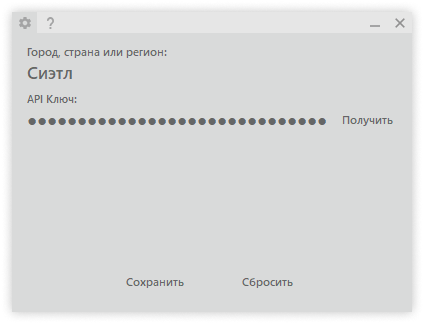
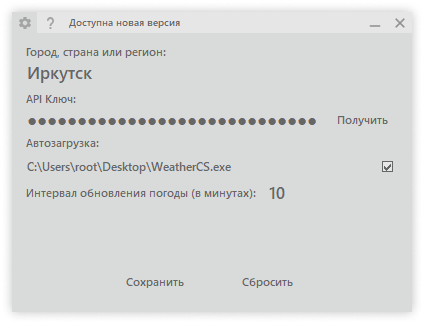
v1.1.3
Small fix :wrench:

diff --git a/WeatherCS/MainForm.cs b/WeatherCS/MainForm.cs
@@ -19,13 +19,13 @@ namespace WeatherCS
 
         readonly string appName = About.AssemblyTitle;
         readonly string exPath = Application.ExecutablePath;
-        bool fadeIn = true;
         bool isChecked = false;
         bool isEntered = false;
 
         public MainForm()
         {
             InitializeComponent();
+
             Load += async (s, e) =>
             {
                 if (GetRegistry("autorun") == null)
@@ -121,6 +121,7 @@ namespace WeatherCS
                     Show();
                     Tray.Visible = false;
                     WindowState = FormWindowState.Normal;
+                    FadeInApp();
                 }
             };
             TrayAboutButton.Click += (s, e) =>
@@ -128,6 +129,7 @@ namespace WeatherCS
                 Show();
                 Tray.Visible = false;
                 WindowState = FormWindowState.Normal;
+                FadeInApp();
 
                 if (!AboutPanel.Visible)
                 {
@@ -140,6 +142,8 @@ namespace WeatherCS
                 Show();
                 Tray.Visible = false;
                 WindowState = FormWindowState.Normal;
+                FadeInApp();
+
                 if (!SettingPanel.Visible)
                 {
                     SettingButton.Focus();
@@ -149,7 +153,14 @@ namespace WeatherCS
             TrayCloseButton.Click += (s, e) => { Close(); };
 
             LocationInput.Enter += (s, e) => { isEntered = true; LocMessage.Text = "Нажмите Enter, чтобы сохранить."; };
-            LocationInput.KeyDown += (s, e) => { UpdateLocation(s, e); };
+            LocationInput.KeyDown += (s, e) => {
+                if (e.KeyCode == Keys.Enter)
+                {
+                    ActiveControl = null;
+                    e.SuppressKeyPress = true;
+                    GetWeather((s as TextBox).Text);
+                }
+            };
             LocationInput.KeyPress += (s, e) => { RegExpLocationInput(s, e); };
             LocationInput.TextChanged += (s, e) =>
             {
@@ -199,13 +210,13 @@ namespace WeatherCS
                 {
                     SetRegistry("autorun", "True");
                     using (RegistryKey r = Registry.LocalMachine.OpenSubKey(@"Software\Microsoft\Windows\CurrentVersion\Run", true))
-                        r.SetValue(About.AssemblyTitle, exPath + " /minimized");
+                        r.SetValue(appName, exPath + " /minimized");
                 }
                 else
                 {
                     SetRegistry("autorun", "False");
                     using (RegistryKey r = Registry.LocalMachine.OpenSubKey(@"Software\Microsoft\Windows\CurrentVersion\Run", true))
-                        r.DeleteValue(About.AssemblyTitle);
+                        r.DeleteValue(appName);
                 }
             };
             SettingsInterval.KeyPress += (s, e) =>
@@ -289,6 +300,7 @@ namespace WeatherCS
                 Timer.Interval = Convert.ToInt32(SettingsInterval.Text) * 60000;
 
                 GetWeather();
+                FadeInApp();
             }
             else
             {
@@ -333,7 +345,7 @@ namespace WeatherCS
                 PressureLabel.Text = pressure;
                 LocationInput.Text = loc;
                 SettingsLocation.Text = loc;
-                DescriptionPic.Text = FirstLetterToUpper(w.Weather[0].Description);
+                DescriptionPic.Text = Char.ToUpper(w.Weather[0].Description[0]) + w.Weather[0].Description.Substring(1);
                 WeatherIco.ImageLocation = String.Format("https://openweathermap.org/img/wn/{0}@4x.png", w.Weather[0].Icon);
 
                 ErrorHandler();
@@ -369,7 +381,7 @@ namespace WeatherCS
                 Match m = Regex.Match(w.DownloadString("https://raw.githubusercontent.com/crashmax-off/WeatherCS/master/WeatherCS/Properties/AssemblyInfo.cs"), @"\[assembly\: AssemblyVersion\(""(\d+\.\d+\.\d+)""\)\]");
                 string[] v1 = m.Groups[1].Value.Split('.');
                 string[] v2 = About.AssemblyVersion.Split('.');
-                string[] r = v2.Where(x => v1.Any(y => y.Equals(x))).ToArray();
+                string[] r = v1.Where(x => v2.Any(y => y.Equals(x))).ToArray();
                 string u = "https://github.com/crashmax-off/WeatherCS/releases/latest";
 
                 if (r.Length < 3)
@@ -401,8 +413,6 @@ namespace WeatherCS
 
         void ErrorHandler(string error = "")
         {
-            FadeInApp();
-
             if (error != "")
             {
                 Text = appName;
@@ -414,7 +424,7 @@ namespace WeatherCS
                 ReconnectButton.Text = "Обновить";
                 ReconnectButton.Enabled = true;
                 DescriptionErrorLabel.Text = error;
-                SettingsLocation.Text = error;
+                SettingsApiKey.ForeColor = Color.Firebrick;
 
                 RegistryApp("api", API.Key);
                 SettingsApiKey.Text = GetRegistry("api");
@@ -424,6 +434,7 @@ namespace WeatherCS
                 ErrorPanel.Visible = false;
 
                 SettingsLocation.ForeColor = SystemColors.ControlDarkDark;
+                SettingsApiKey.ForeColor = SystemColors.ControlDarkDark;
                 LocMessage.ForeColor = SystemColors.ControlDarkDark;
                 LocMessage.Text = $"Обновлено в {DateTime.Now:HH:mm}";
             }
@@ -461,29 +472,9 @@ namespace WeatherCS
 
         async void FadeInApp()
         {
-            if (fadeIn)
+            for (Opacity = 0; Opacity < 0.95; Opacity += 0.05)
             {
-                for (Opacity = 0; Opacity < 0.95; Opacity += 0.05)
-                {
-                    await Task.Delay(10);
-                }
-            }
-            else { Opacity = 0.95; }
-            fadeIn = false;
-        }
-
-        string FirstLetterToUpper(string str)
-        {
-            return Char.ToUpper(str[0]) + str.Substring(1);
-        }
-
-        void UpdateLocation(object sender, KeyEventArgs e)
-        {
-            if (e.KeyCode == Keys.Enter)
-            {
-                ActiveControl = null;
-                e.SuppressKeyPress = true;
-                GetWeather((sender as TextBox).Text);
+                await Task.Delay(10);
             }
         }
 

diff --git a/WeatherCS/About.cs b/WeatherCS/About.cs
@@ -9,15 +9,8 @@ namespace WeatherCS
             get
             {
                 object[] attributes = Assembly.GetExecutingAssembly().GetCustomAttributes(typeof(AssemblyTitleAttribute), false);
-                if (attributes.Length > 0)
-                {
-                    AssemblyTitleAttribute titleAttribute = (AssemblyTitleAttribute)attributes[0];
-                    if (titleAttribute.Title != "")
-                    {
-                        return titleAttribute.Title;
-                    }
-                }
-                return System.IO.Path.GetFileNameWithoutExtension(Assembly.GetExecutingAssembly().CodeBase);
+                AssemblyTitleAttribute titleAttribute = (AssemblyTitleAttribute)attributes[0];
+                return titleAttribute.Title;
             }
         }
 
@@ -26,10 +19,6 @@ namespace WeatherCS
             get
             {
                 object[] attributes = Assembly.GetExecutingAssembly().GetCustomAttributes(typeof(AssemblyDescriptionAttribute), false);
-                if (attributes.Length == 0)
-                {
-                    return "";
-                }
                 return ((AssemblyDescriptionAttribute)attributes[0]).Description;
             }
         }

diff --git a/WeatherCS/Properties/AssemblyInfo.cs b/WeatherCS/Properties/AssemblyInfo.cs
@@ -31,5 +31,5 @@ using System.Runtime.InteropServices;
 // Можно задать все значения или принять номера сборки и редакции по умолчанию 
 // используя "*", как показано ниже:
 // [assembly: AssemblyVersion("1.0.*")]
-[assembly: AssemblyVersion("1.1.2")]
-[assembly: AssemblyFileVersion("1.1.2")]
+[assembly: AssemblyVersion("1.1.3")]
+[assembly: AssemblyFileVersion("1.1.3")]
